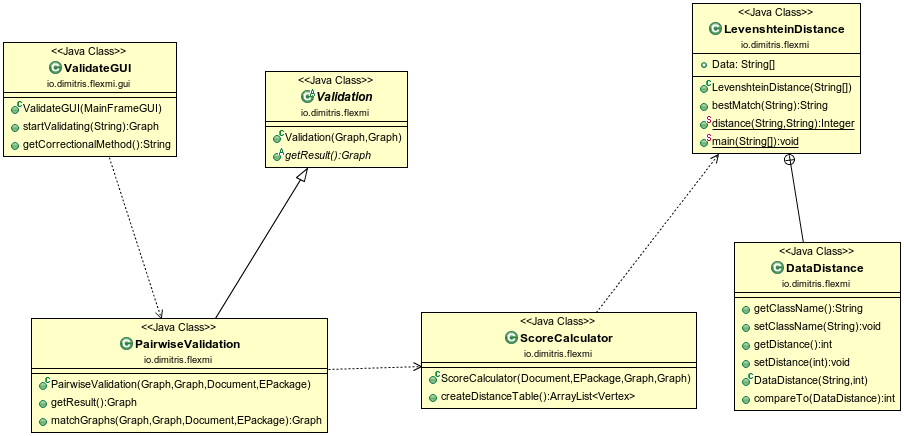
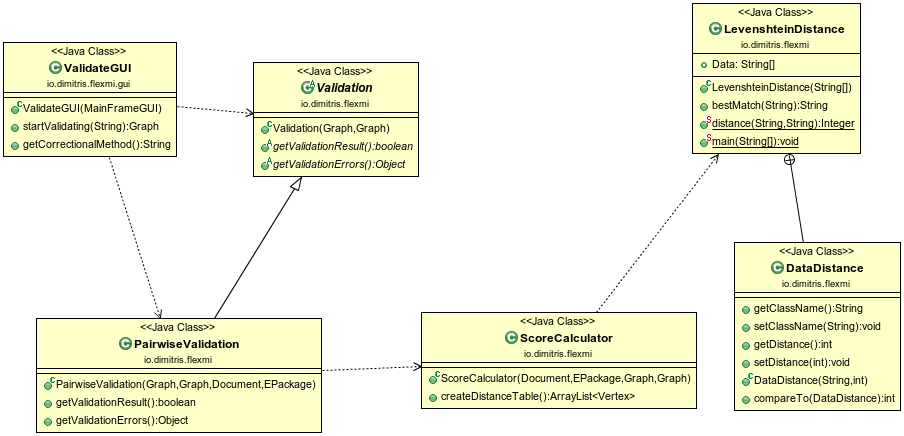
changed validation method

diff --git a/io.dimitris.flexmi/src/io/dimitris/flexmi/junit/FuzzyCorrectionTest.java b/io.dimitris.flexmi/src/io/dimitris/flexmi/junit/FuzzyCorrectionTest.java
@@ -42,9 +42,9 @@ public class FuzzyCorrectionTest {
 		
 		FuzzyCorrection testObj =  new FuzzyCorrection(doc, ePackage);
 		
-		Vertex A = new Vertex("A", new ArrayList<Attribute>());
-		Vertex B = new Vertex("B", new ArrayList<Attribute>());
-		Vertex D = new Vertex("D", new ArrayList<Attribute>());
+		Vertex A = new Vertex("A", new ArrayList<Attribute>(),"");
+		Vertex B = new Vertex("B", new ArrayList<Attribute>(),"");
+		Vertex D = new Vertex("D", new ArrayList<Attribute>(),"");
 		Edge A_B = new Edge(A, B);
 		Edge B_D = new Edge(B, D);
 		A.addConnectedEdge(A_B);
@@ -84,10 +84,10 @@ public class FuzzyCorrectionTest {
 		
 		FuzzyCorrection testObj =  new FuzzyCorrection(doc, ePackage);
 		
-		Vertex A = new Vertex("A", new ArrayList<Attribute>());
-		Vertex B = new Vertex("B", new ArrayList<Attribute>());
-		Vertex C = new Vertex("C", new ArrayList<Attribute>());
-		Vertex D = new Vertex("D", new ArrayList<Attribute>());
+		Vertex A = new Vertex("A", new ArrayList<Attribute>(),"");
+		Vertex B = new Vertex("B", new ArrayList<Attribute>(),"");
+		Vertex C = new Vertex("C", new ArrayList<Attribute>(),"");
+		Vertex D = new Vertex("D", new ArrayList<Attribute>(),"");
 		Edge A_B = new Edge(A, B);
 		Edge A_C = new Edge(A, C);
 		Edge B_D = new Edge(B, D);
@@ -134,22 +134,22 @@ public class FuzzyCorrectionTest {
 		
 		FuzzyCorrection testObj =  new FuzzyCorrection(doc, ePackage);
 		
-		Vertex A_A = new Vertex("A_A", new ArrayList<Attribute>());
-		Vertex A_B = new Vertex("A_B", new ArrayList<Attribute>());
+		Vertex A_A = new Vertex("A_A", new ArrayList<Attribute>(),"");
+		Vertex A_B = new Vertex("A_B", new ArrayList<Attribute>(),"");
 //		Vertex A_C = new Vertex("A_C", new ArrayList<Attribute>());
 //		Vertex A_D = new Vertex("A_D", new ArrayList<Attribute>());
 		
 		
 //		Vertex B_A = new Vertex("B_A", new ArrayList<Attribute>());
-		Vertex B_B = new Vertex("B_B", new ArrayList<Attribute>());
+		Vertex B_B = new Vertex("B_B", new ArrayList<Attribute>(),"");
 //		Vertex B_C = new Vertex("B_C", new ArrayList<Attribute>());
 //		Vertex B_D = new Vertex("B_D", new ArrayList<Attribute>());
 		
 		
 //		Vertex C_A = new Vertex("C_A", new ArrayList<Attribute>());
 //		Vertex C_B = new Vertex("C_B", new ArrayList<Attribute>());
-		Vertex C_C = new Vertex("C_C", new ArrayList<Attribute>());
-		Vertex C_D = new Vertex("C_D", new ArrayList<Attribute>());
+		Vertex C_C = new Vertex("C_C", new ArrayList<Attribute>(),"");
+		Vertex C_D = new Vertex("C_D", new ArrayList<Attribute>(),"");
 		
 //		Vertex D_A = new Vertex("D_A", new ArrayList<Attribute>());
 //		Vertex D_B = new Vertex("D_B", new ArrayList<Attribute>());

diff --git a/io.dimitris.flexmi/src/io/dimitris/flexmi/PairwiseValidation.java b/io.dimitris.flexmi/src/io/dimitris/flexmi/PairwiseValidation.java
@@ -1,20 +1,20 @@
 package io.dimitris.flexmi;
 
-import java.math.MathContext;
+import graphtools.Edge;
+import graphtools.Graph;
+import graphtools.Vertex;
+
 import java.util.ArrayList;
 
 import org.eclipse.emf.ecore.EPackage;
 import org.jdom2.Document;
-
-import graphtools.Edge;
-import graphtools.Graph;
-import graphtools.Vertex;
 
 public class PairwiseValidation extends Validation{
 	private Graph XMLGraph;
 	private Graph modelGraph;
 	private Document xmldoc;
 	private EPackage ecoremodel;
+	private Graph validationErrors;
 
 	public PairwiseValidation(Graph XMLGraph,Graph modelGraph,Document doc, EPackage model) {
 		super(XMLGraph,modelGraph);
@@ -26,19 +26,27 @@ public class PairwiseValidation extends Validation{
 	}
 
 	@Override
-	public Graph getResult() {
-		Graph result = matchGraphs(XMLGraph, modelGraph,xmldoc,ecoremodel);
+	public boolean getValidationResult() {
+		boolean result = false;
+		validationErrors = matchGraphs(XMLGraph, modelGraph,xmldoc,ecoremodel);
 		//TODO check graph to see if validation produces errors
-		boolean pairsmatched = doPairsmatch(result);
-		boolean equalNoOfnodes = noOfNodes(result, XMLGraph);
+		boolean pairsmatched = doPairsmatch(validationErrors);
+		boolean equalNoOfnodes = noOfNodes(validationErrors, XMLGraph);
 		
 		if(pairsmatched && equalNoOfnodes)
-			return null;
+			return true;
 		
 		return result;
 	}
 	
-	public Graph matchGraphs(Graph DocGraph, Graph ModelGraph,Document doc, EPackage model){
+	@Override
+	public Object getValidationErrors() {
+		return validationErrors;
+	}
+	
+	
+	
+	private Graph matchGraphs(Graph DocGraph, Graph ModelGraph,Document doc, EPackage model){
 		
 		Graph pairedGraph = new Graph();
 		ScoreCalculator myPairsCreater = new ScoreCalculator(doc, model,DocGraph,ModelGraph);
@@ -130,6 +138,11 @@ public class PairwiseValidation extends Validation{
 			return true;
 		else
 			return false;
+	}
+	
+	private boolean relationshipPreservation(){
+		//TODO write method
+		return false;
 	}
 	
 

diff --git a/io.dimitris.flexmi/src/graphtools/Vertex.java b/io.dimitris.flexmi/src/graphtools/Vertex.java
@@ -2,6 +2,7 @@ package graphtools;
 
 import java.util.ArrayList;
 import java.util.List;
+import java.util.Random;
 
 import org.eclipse.emf.ecore.EAttribute;
 import org.eclipse.emf.ecore.EClass;
@@ -9,26 +10,31 @@ import org.jdom2.Attribute;
 import org.jdom2.Element;
 
 public class Vertex implements Comparable<Vertex> {
+	private int ID;
 	private String Name;
 	private ArrayList<Attribute> Attributes;
+	private String Content;
 	private Element vertexElement;
 	private EClass vertexEClass;
 	private Double DistanceScore;
 	private ArrayList<Edge> connectedEdges; // these are all outgoing edges
 	
-	public Vertex(String name, ArrayList<Attribute> Attributes){
+	public Vertex(String name, ArrayList<Attribute> Attributes, String Content){
 		this.Name = name;
 		this.Attributes = Attributes;
+		this.Content = Content;
 		connectedEdges = new ArrayList<Edge>();
 		this.vertexElement = null;
 		this.vertexEClass = null;
 	}
 	
 	public Vertex(Element element){
+		this.ID = new Random().nextInt(10000000);
 		this.Name = element.getName();
 		this.Attributes = convertToArrayList(element.getAttributes());
 		connectedEdges = new ArrayList<Edge>();
 		this.vertexElement = element;
+		this.Content = element.getText();
 	}
 	
 	public Vertex(EClass eclass){
@@ -56,6 +62,10 @@ public class Vertex implements Comparable<Vertex> {
 	}
 	
 	public boolean equals(Object o){
+		if(((Vertex)o).getAttributes() != null && this.Attributes != null){
+			return (((Vertex)o).getName().equals(this.Name) &&
+					((Vertex)o).getAttributes().size() == this.Attributes.size());
+		}
 		return (((Vertex)o).getName().equals(this.Name));
 	}
 	
@@ -83,6 +93,10 @@ public class Vertex implements Comparable<Vertex> {
 
 	public ArrayList<Attribute> getAttributes() {
 		return Attributes;
+	}
+	
+	public String getContent(){
+		return Content;
 	}
 
 	public Element getVertexElement() {

diff --git a/io.dimitris.flexmi/src/io/dimitris/flexmi/gui/ValidateGUI.java b/io.dimitris.flexmi/src/io/dimitris/flexmi/gui/ValidateGUI.java
@@ -2,6 +2,7 @@ package io.dimitris.flexmi.gui;
 
 import graphtools.Graph;
 import io.dimitris.flexmi.PairwiseValidation;
+import io.dimitris.flexmi.Validation;
 
 import javax.swing.JComboBox;
 import javax.swing.JLabel;
@@ -41,15 +42,15 @@ public class ValidateGUI extends JPanel {
 	}
 	public Graph startValidating(String ValidationName){
 		if(ValidationName == "Pairwise Validation"){
-			PairwiseValidation pvalidation = new PairwiseValidation(parent.XMLGraph, parent.modelGraph, parent.xmldocument, parent.model);
-			Graph validationResult = pvalidation.getResult();
+			Validation pvalidation = new PairwiseValidation(parent.XMLGraph, parent.modelGraph, parent.xmldocument, parent.model);
+			boolean validationResult = pvalidation.getValidationResult();
 			
-			if (validationResult == null){
+			if (validationResult == true){
 				lblValidatingStatus.setText("Validating Succes. No errors found");
 				return null;
 			}
 			
-			return validationResult;			
+			return (Graph)pvalidation.getValidationErrors();			
 		}
 		return null;
 	}

diff --git a/io.dimitris.flexmi/src/io/dimitris/flexmi/ScoreCalculator.java b/io.dimitris.flexmi/src/io/dimitris/flexmi/ScoreCalculator.java
@@ -106,6 +106,7 @@ public class ScoreCalculator {
 		LevenshteinDistance attDistance = new LevenshteinDistance(classAttstoStringArray(eclass));
 		double attSum = 0;
 		int numberOfatts = eclass.getEAllAttributes().size();
+		int numberOfattsElements = element.getAttributes().size();
 		if(numberOfatts != 0 && element.getAttributes().size() != 0 && eclass.getEAllAttributes() != null){
 			//get all the distance of each attributes with the best match in the model and the divide the sum by how many attributes in the model class
 			
@@ -124,7 +125,8 @@ public class ScoreCalculator {
 		int numberOfChildrenModel = ModelGraph.getNode(eclass).getConnectedEdges().size();
 		//get difference between number of children in graph and model
 		int absdifference = Math.abs(numberOfChildrenXML - numberOfChildrenModel);
-		sum = sum + absdifference;
+		int absdifferenceofatts = Math.abs(numberOfattsElements - numberOfatts);
+		sum = sum + absdifference + absdifferenceofatts;
 		return sum;
 	}
 	

diff --git a/io.dimitris.flexmi/src/graphtools/Graph.java b/io.dimitris.flexmi/src/graphtools/Graph.java
@@ -1,5 +1,8 @@
 package graphtools;
 
+import java.io.File;
+import java.io.FileWriter;
+import java.io.IOException;
 import java.util.ArrayList;
 
 import org.eclipse.emf.ecore.EClass;
@@ -111,5 +114,24 @@ public class Graph {
 		
 		return sameedges && samenodes;
 	}
-
+	
+	public File converToGraphviz(String filename) throws IOException{
+		File file = new File(filename + ".dot");
+		FileWriter writer = new FileWriter(file);
+		String graphviz = "digraph { \n";
+		
+		for(Edge edge : this.Edges){
+			String line = "	" + edge.getSource().getName() + " -> " + edge.getTarget().getName() + "\n";
+			graphviz = graphviz + line ; 
+		}
+		
+		graphviz = graphviz + "}" ;
+		
+		writer.write(graphviz);
+		writer.flush();
+		writer.close();
+		
+		
+		return file;
+	}
 }

diff --git a/io.dimitris.flexmi/src/io/dimitris/flexmi/TestJava.java b/io.dimitris.flexmi/src/io/dimitris/flexmi/TestJava.java
@@ -23,8 +23,8 @@ public class TestJava {
 		Element root = new Element("A");
 		Element child1 = new Element("B");
 		Element child2 = new Element("C");
-		Element child1_1 = new Element("D");
-		child1.addContent(child1_1);
+//		Element child1_1 = new Element("D");
+//		child1.addContent(child1_1);
 		root.addContent(child1);
 		root.addContent(child2);
 		Document doc = new Document(root);

diff --git a/io.dimitris.flexmi/src/io/dimitris/flexmi/FuzzyCorrection.java b/io.dimitris.flexmi/src/io/dimitris/flexmi/FuzzyCorrection.java
@@ -235,6 +235,7 @@ public class FuzzyCorrection {
 			}
 		}
 		
+		System.out.println("matched graph");
 		for (Edge edge : pairedGraph.getEdges()) {
 			System.out.println("Source: " + edge.getSource().getName() + "----------->" + "Target: "+ edge.getTarget().getName()+"--Edge Val: " + edge.getValue());
 		}

diff --git a/io.dimitris.flexmi/src/io/dimitris/flexmi/gui/MainFrameGUI.java b/io.dimitris.flexmi/src/io/dimitris/flexmi/gui/MainFrameGUI.java
@@ -44,6 +44,7 @@ public class MainFrameGUI {
 	public String correctionMethod;
 	public LinkedHashMap<Vertex, Double> correctionResult;
 	public String outputMethod;
+	
 	/**
 	 * Launch the application.
 	 */

diff --git a/io.dimitris.flexmi/src/io/dimitris/flexmi/Validation.java b/io.dimitris.flexmi/src/io/dimitris/flexmi/Validation.java
@@ -8,6 +8,8 @@ public abstract class Validation {
 		
 	}
 	
-	public abstract Graph getResult();
+	public abstract boolean getValidationResult();
+	
+	public abstract Object getValidationErrors();
 
 }
